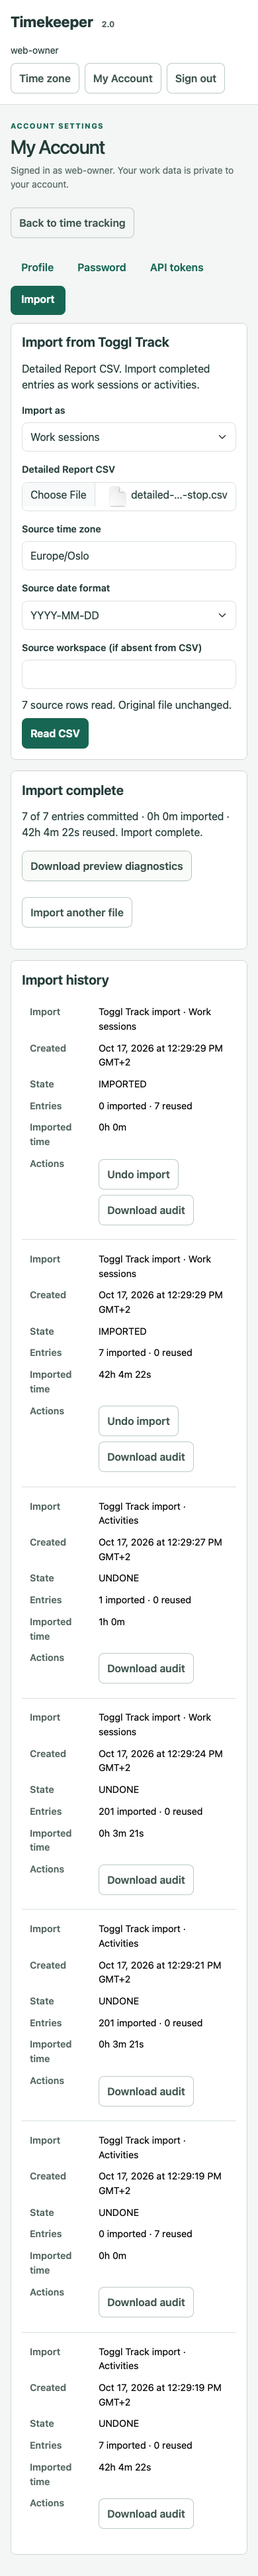
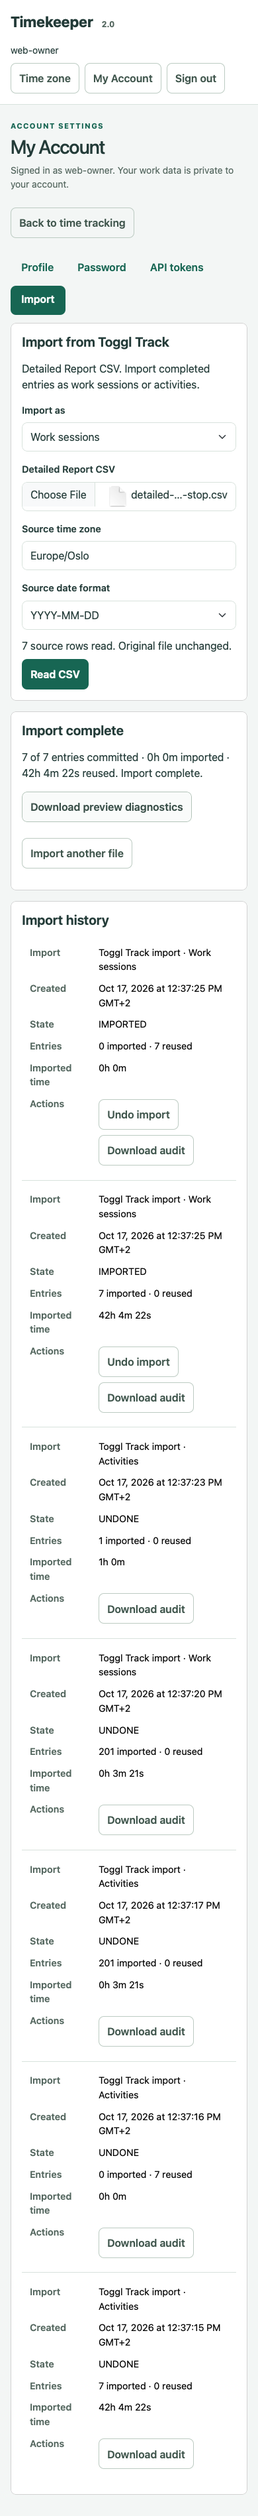
Refresh import screenshots and workspace-free validation results

diff --git a/docs/verification/TOGGL-IMPORT-ACCEPTANCE.md b/docs/verification/TOGGL-IMPORT-ACCEPTANCE.md
@@ -27,7 +27,7 @@ project/tag/description text and dates while retaining seven intervals totaling
   jobs resume a 201-row import after a dropped reply and reload, then review edited
   records during Undo. The real seven-row session fixture contributes 42h 4m to
   Track’s monthly client total and creates no companion records.
-- Packaged HTTPS WebKit: all six import scenarios passed on `7f70f0d`, including
+- Packaged HTTPS WebKit: all six import scenarios passed on `277e042`, including ignored workspace metadata,
   accessibility checks and narrow-screen history. Earlier full-suite and SMTP
   recovery runs remain recorded in the preceding implementation’s CI history.
 - PostgreSQL replica/restore runs exercise both import modes on 17.11 and 18.6.
